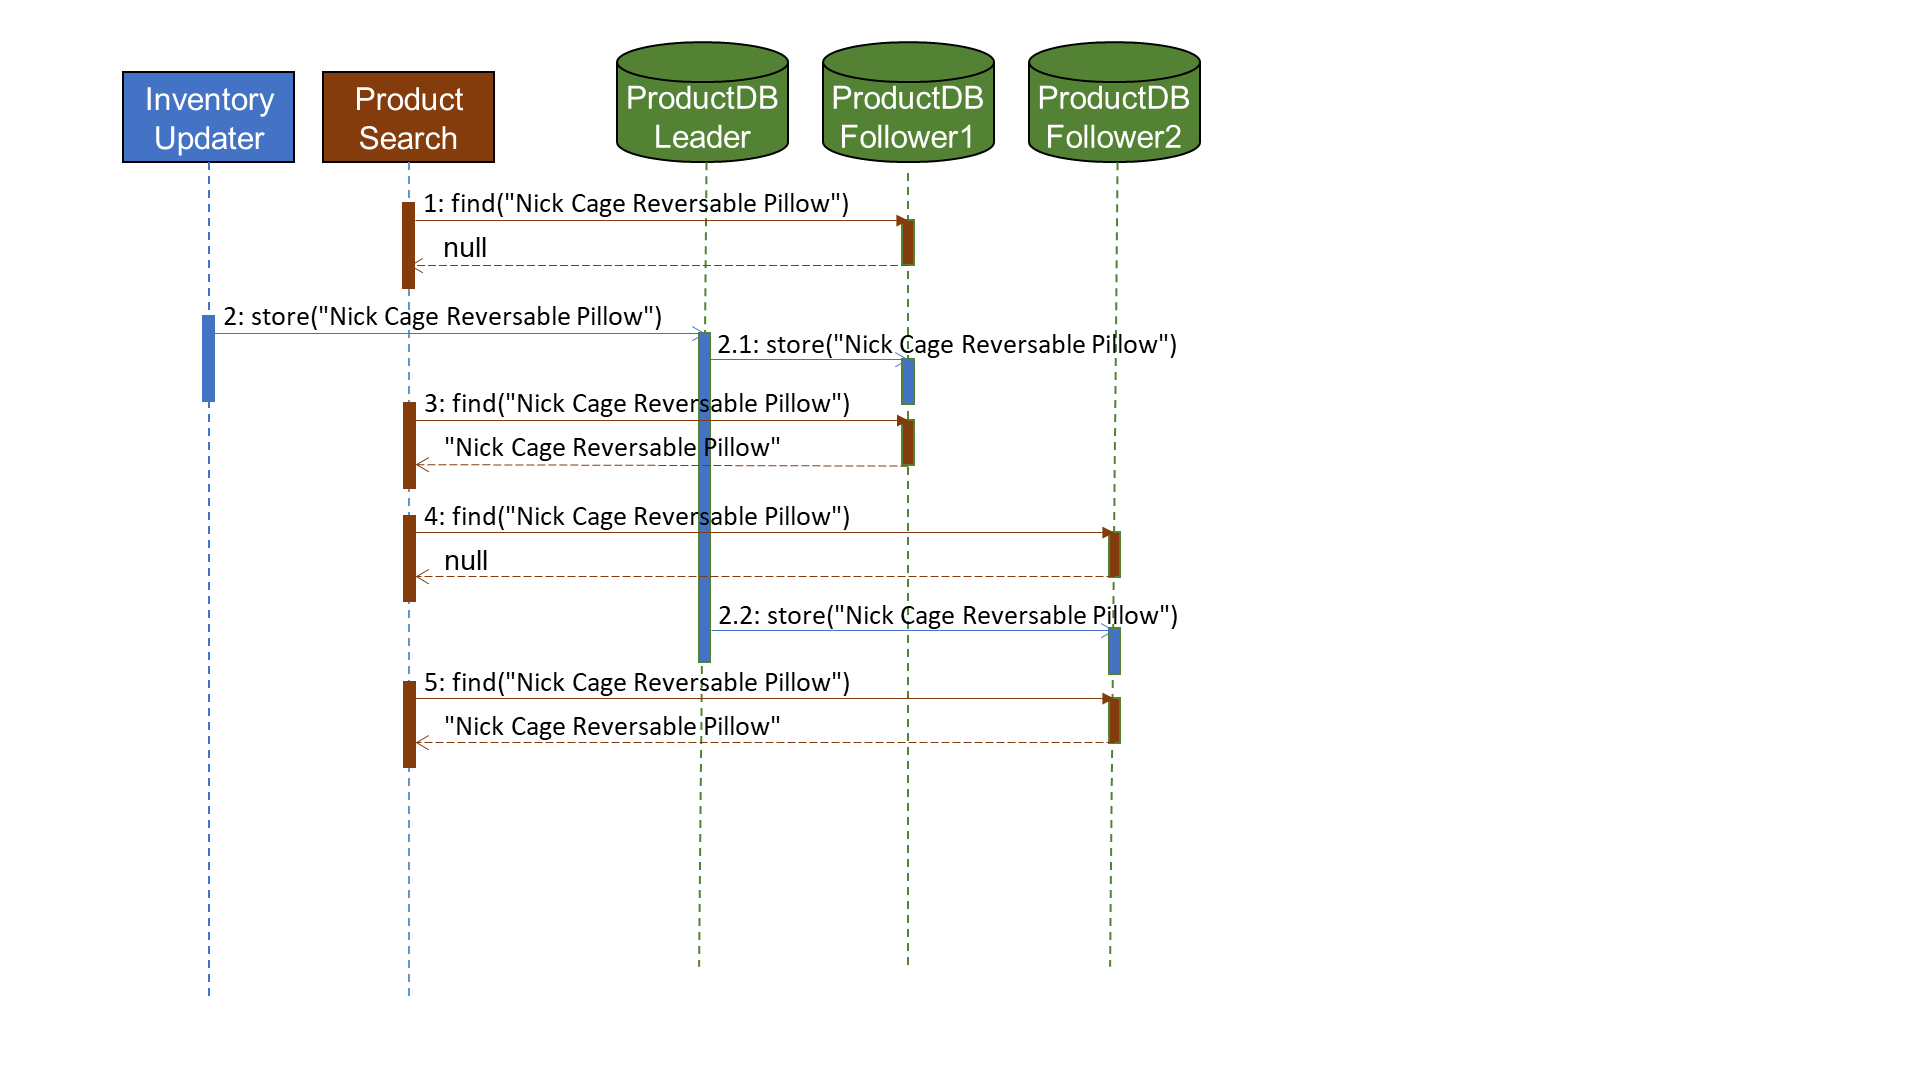
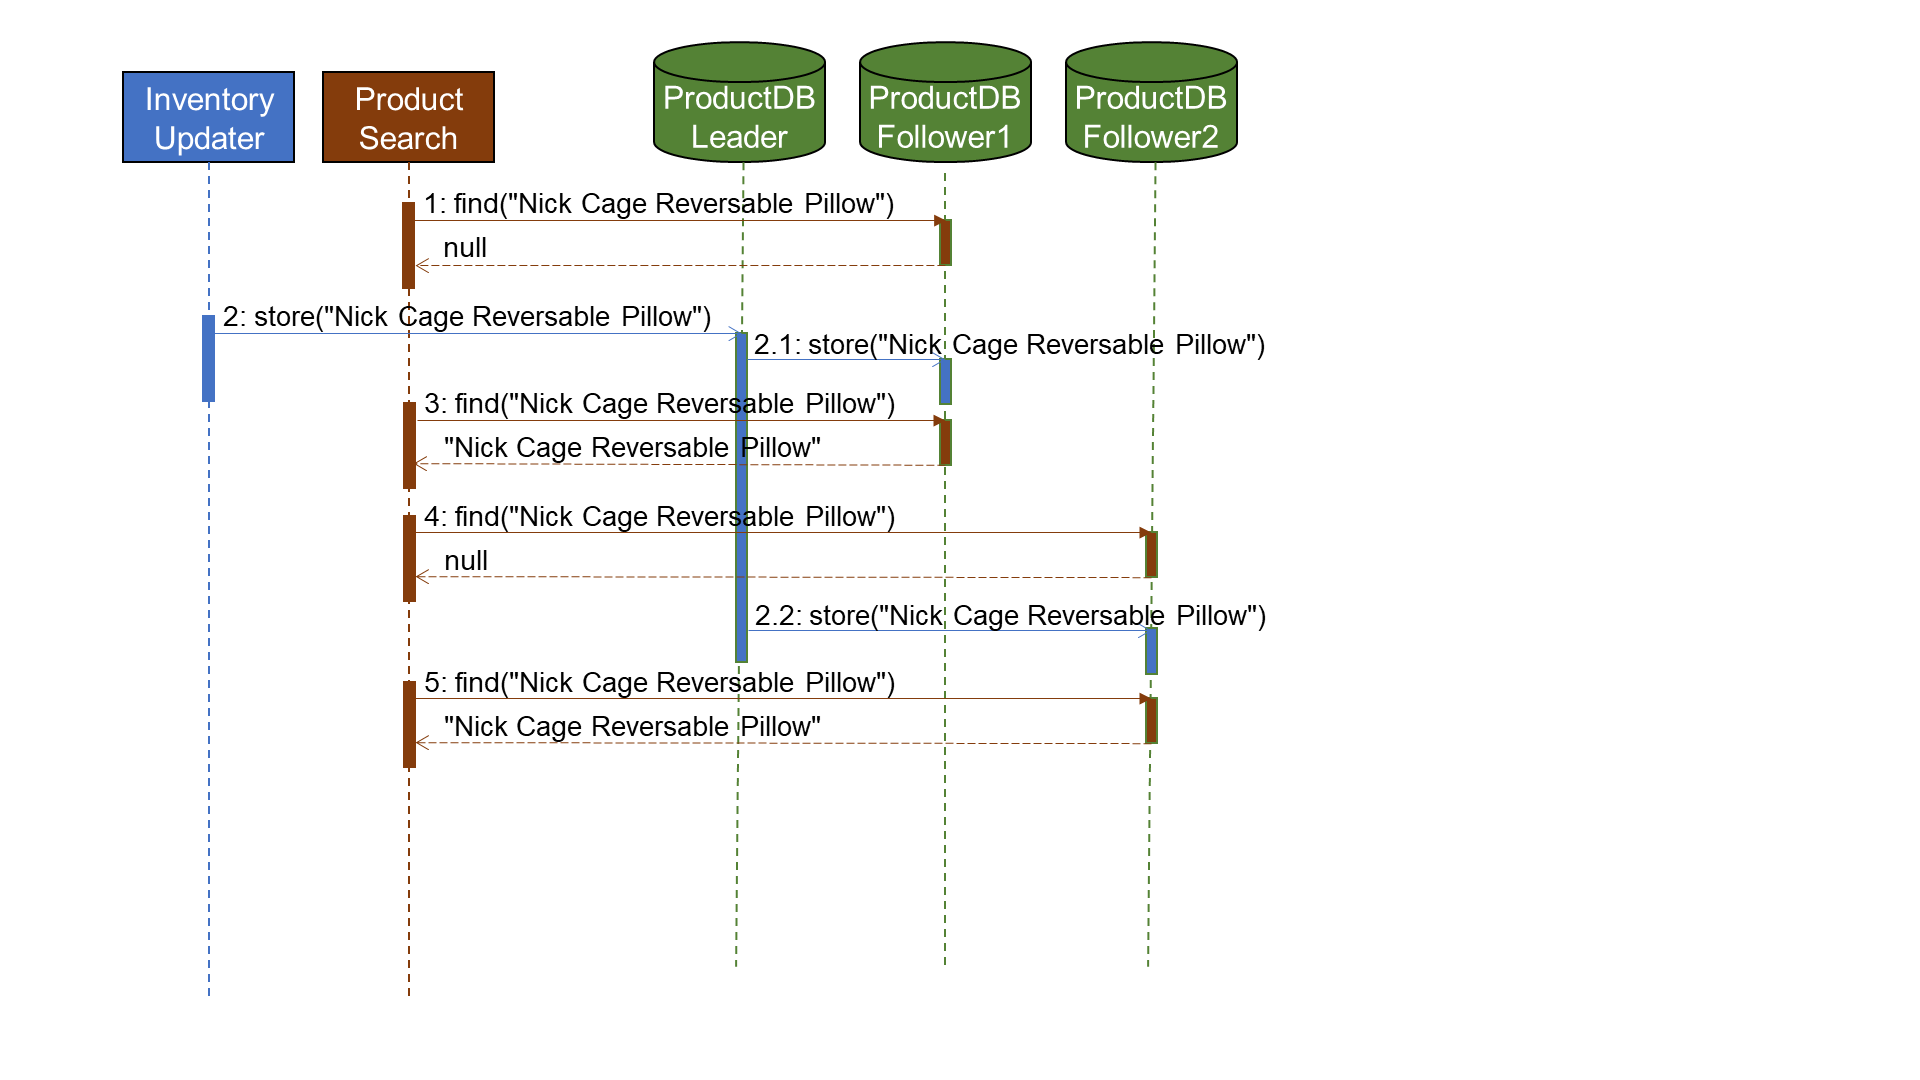
Two-phase commit notes.

Changed region(s): [[0.125, 0.275, 0.6562, 0.7028], [0.3125, 0.0306, 0.6562, 0.1528], [0.2188, 0.1833, 0.5, 0.2444]]

diff --git a/notes/distributed3/content.tex b/notes/distributed3/content.tex
@@ -132,6 +132,89 @@ When designing a distributed system, you can take advantage of the abstraction o
 Abstractions like consensus and transactions \cite{distributed2-notes} make it easier to reason about the behaviour of a distributed system.
 In this section, we will look at how consensus can be implemented.
 
+\subsection{Distributed Transactions}
+
+A distributed system that needs to enforce a transaction across multiple compute nodes
+needs a mechanism to gain consensus between all nodes participating in the transaction that it can be committed.
+This is called the \emph{atomic commit} problem, based on the idea of transaction atomicity from ACID \cite{distributed2-notes}.
+
+In a database, a distributed transaction may happen when the database is partitioned and data in different partitions are part of the transaction.
+It will also happen if the database has a secondary index on a different node to the primary index.
+Distributed transactions may also occur where events or messages are part of the transaction.
+An example of this is sending a message to a message queue, while storing data in a database.
+In the Sahara eCommerce system, when an order is placed it is stored in the order table in the database
+and a message is placed in the notification queue to notify the customer that the order has been successful.
+Storing the order may be a transaction in only a single database partition,
+but to ensure the notification message is only added to the queue if the order is successful requires a distributed transaction.
+
+\subsubsection{Two-Phase Commit}
+A two-phase commit algorithm is a type of consensus algorithm that solves the atomic commit problem.
+As the name implies, it splits the commit into two steps.
+There are better consensus algorithms, but two-phase commit is fairly simple and still commonly used.
+
+\begin{figure}[h!]
+    \centering
+    \includegraphics[trim=55 70 420 30,clip,width=0.67\textwidth]{diagrams/2phase-commit-seq.png}
+    \caption{Two-phase commit.}
+    \label{fig:2pc-seq}
+\end{figure}
+
+A \emph{transaction manager} is introduced to coordinate the two-phase commit process.
+The database nodes that are part of the transaction are called \emph{participants}.
+
+The process starts when some part of the system (\texttt{Client} in figure \ref{fig:2pc-seq})
+requests to start a distributed transaction and receives a unique transaction identifier (\texttt{transId}).
+The client starts \emph{single-node} transactions on each, attaching the \texttt{transId} to the transaction.
+The client can perform multiple reads and writes as part of the transaction.
+
+When the client is ready to commit the transaction it notifies the \texttt{TransactionManager} to perform the commit.
+The \texttt{TransactionManager} sends a prepare message to all the participants.
+If a prepare message times out, or any participant reports a failure,
+the \texttt{TransactionManager} send an abort message to all participants and reports the failure to the client.
+
+When a participant receives the prepare message, it confirms that it can commit the transaction,
+regardless of any fault that may occur after replying to the prepare message.
+(i.e. The participant has saved all changes as part of this transaction in persistent memory.)
+The participant is no longer able to abort the transaction itself,
+it can only abort it now if it receives an abort message from the \texttt{TransactionManager}.
+In effect, it is a pseudo-commit.
+
+When the \texttt{TransactionManager} receives positive responses from all participants,
+it saves the commit decision to a persistent transaction log.
+This means that even if the \texttt{TransactionManager} fails, it can recover the decision.
+This is called the \emph{commit point}.
+If the \texttt{TransactionManager} decides to abort the transaction,
+it records the abort decision in the transaction log.
+
+After the commit point has been reached, the \texttt{TransactionManager} sends the commit message to all participants.
+This is an irreversible decision.
+If the commit message fails or times out, the \texttt{TransactionManager} must continue retrying the message
+until all participants report that they have commited the transaction.
+This means that even if a participant crashes before it performs the commit, it will complete the commit once the participant restarts.
+That was the reason for performing a pseudo-commit at the prepare stage,
+if necessary, the participant can recover and redo all steps that are part of the transaction leading up to the commit.
+
+If the \texttt{TransactionManager} fails during the commit process,
+it can recover and resend the commit messages to any participant that had not responded before the \texttt{TransactionManager} failed.
+If a participant had commited the transaction before the \texttt{TransactionManager} failed,
+it can ignore the new commit and just report that the commit was successful.
+
+A two-phase commit is called a \emph{blocking} atomic commit,
+as completion of the commit can take a long time if a participant or the \texttt{TransactionManager} fail.
+Even worse, if the transaction log on the \texttt{TransactionManager} or a participant are corrupted when they fail,
+this may lead to rows in the database never being unlocked.
+This usually requires manual intervention to decide whether to complete the commit or roll it back, to maintain atomicity.
+Some libraries that support two-phase commit can make an automated decision in this case,
+but the decision will probably break atomicity.
+
+Two-phase commit provides a simple abstraction that allows distributed systems to perform safe transactions.
+The drawback is that a blocking atomic commit is a significant performance cost.
+Even if the \texttt{TransactionManager}, and no participant, fails;
+rows across multiple database nodes are locked until the commit completes.
+If there is a failure, recovery can take a long time.
+For example, in MySQL it is reported that distributed transactions are ten times slower than single-node transactions \cite{distrib-mysql}.
+Consequently, most NoSQL databases and many cloud-based relational databases do not support distributed transactions.
+
 \subsection{Behaving Nodes}
 Leaders \& Locks
 
@@ -154,7 +237,7 @@ A read that occurs after a write, but which reads from a replica that has not be
 
 \begin{figure}[h!]
     \centering
-    \includegraphics[trim=55 152 358 17,clip,width=0.7\textwidth]{diagrams/eventual-consistency-seq.png}
+    \includegraphics[trim=60 152 330 18,clip,width=0.7\textwidth]{diagrams/eventual-consistency-seq.png}
     \caption{Eventual consistency issues.}
     \label{fig:eventual-consistency-seq}
 \end{figure}
@@ -304,7 +387,7 @@ it increases its own counter to the new maximum.
 
 \begin{figure}[h!]
     \centering
-    \includegraphics[trim=60 189 450 35,clip,width=0.68\textwidth]{diagrams/lamport-timestamp-seq.png}
+    \includegraphics[trim=60 189 450 35,clip,width=0.67\textwidth]{diagrams/lamport-timestamp-seq.png}
     \caption{Lamport timestamps.}
     \label{fig:lamport-timestamp-seq}
 \end{figure}
@@ -319,8 +402,8 @@ the message includes \texttt{InventoryUpdater}'s maximum value of \texttt{3}.
 \texttt{ProductDB1}'s counter value was \texttt{1}, so it increases it to \texttt{4} and returns it to \texttt{InventoryUpdater}.
 
 Lamport timestamps define causal ordering for operations but they do not guarantee consistency when an operation is performed.
-If two orders were sent to \texttt{ProductDB1} and \texttt{ProductDB2} at the same time and there was only one item in stock,
-Lamport timestamps would provide a way to decide which order occurred first, but only after the orders were processed.
+If two orders are sent to \texttt{ProductDB1} and \texttt{ProductDB2} at the same time and there is only one item in stock,
+Lamport timestamps provide a way to decide which order occurred first, but only after the orders are processed.
 
 To enforce a constraint that would not allow two orders for the last item in stock,
 there needs to be a mechanism to indicate when the order is completed.
